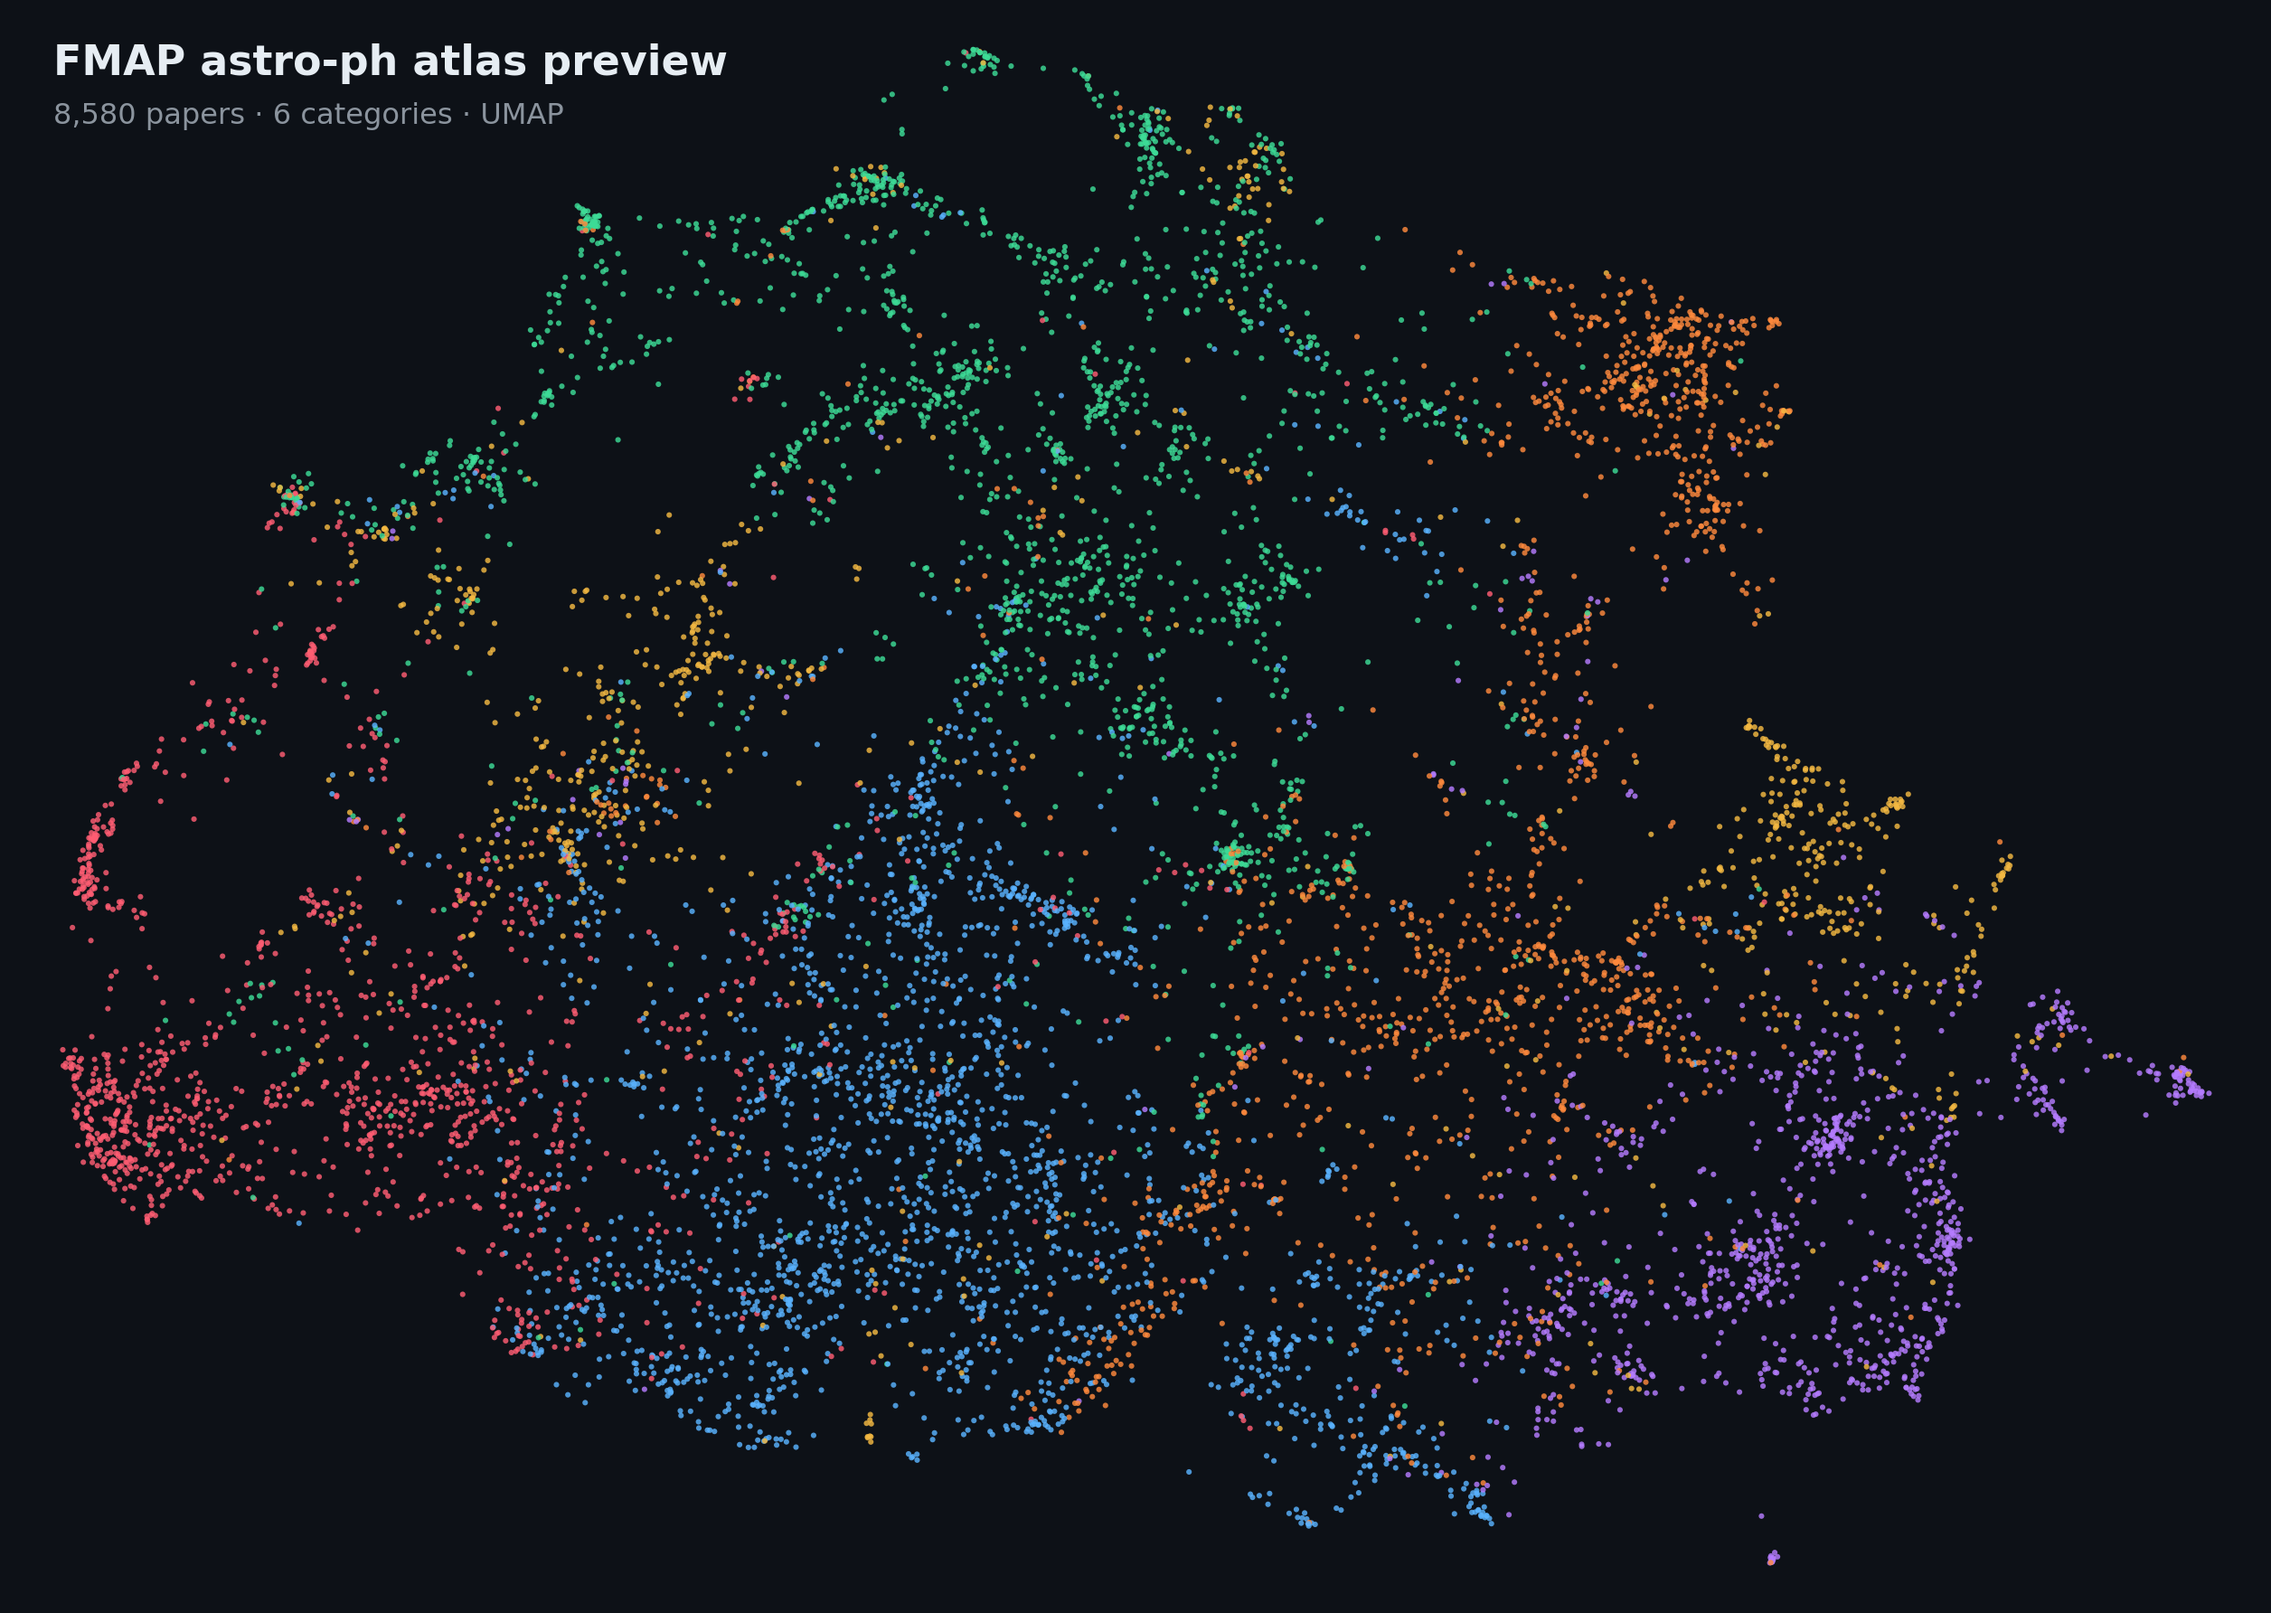
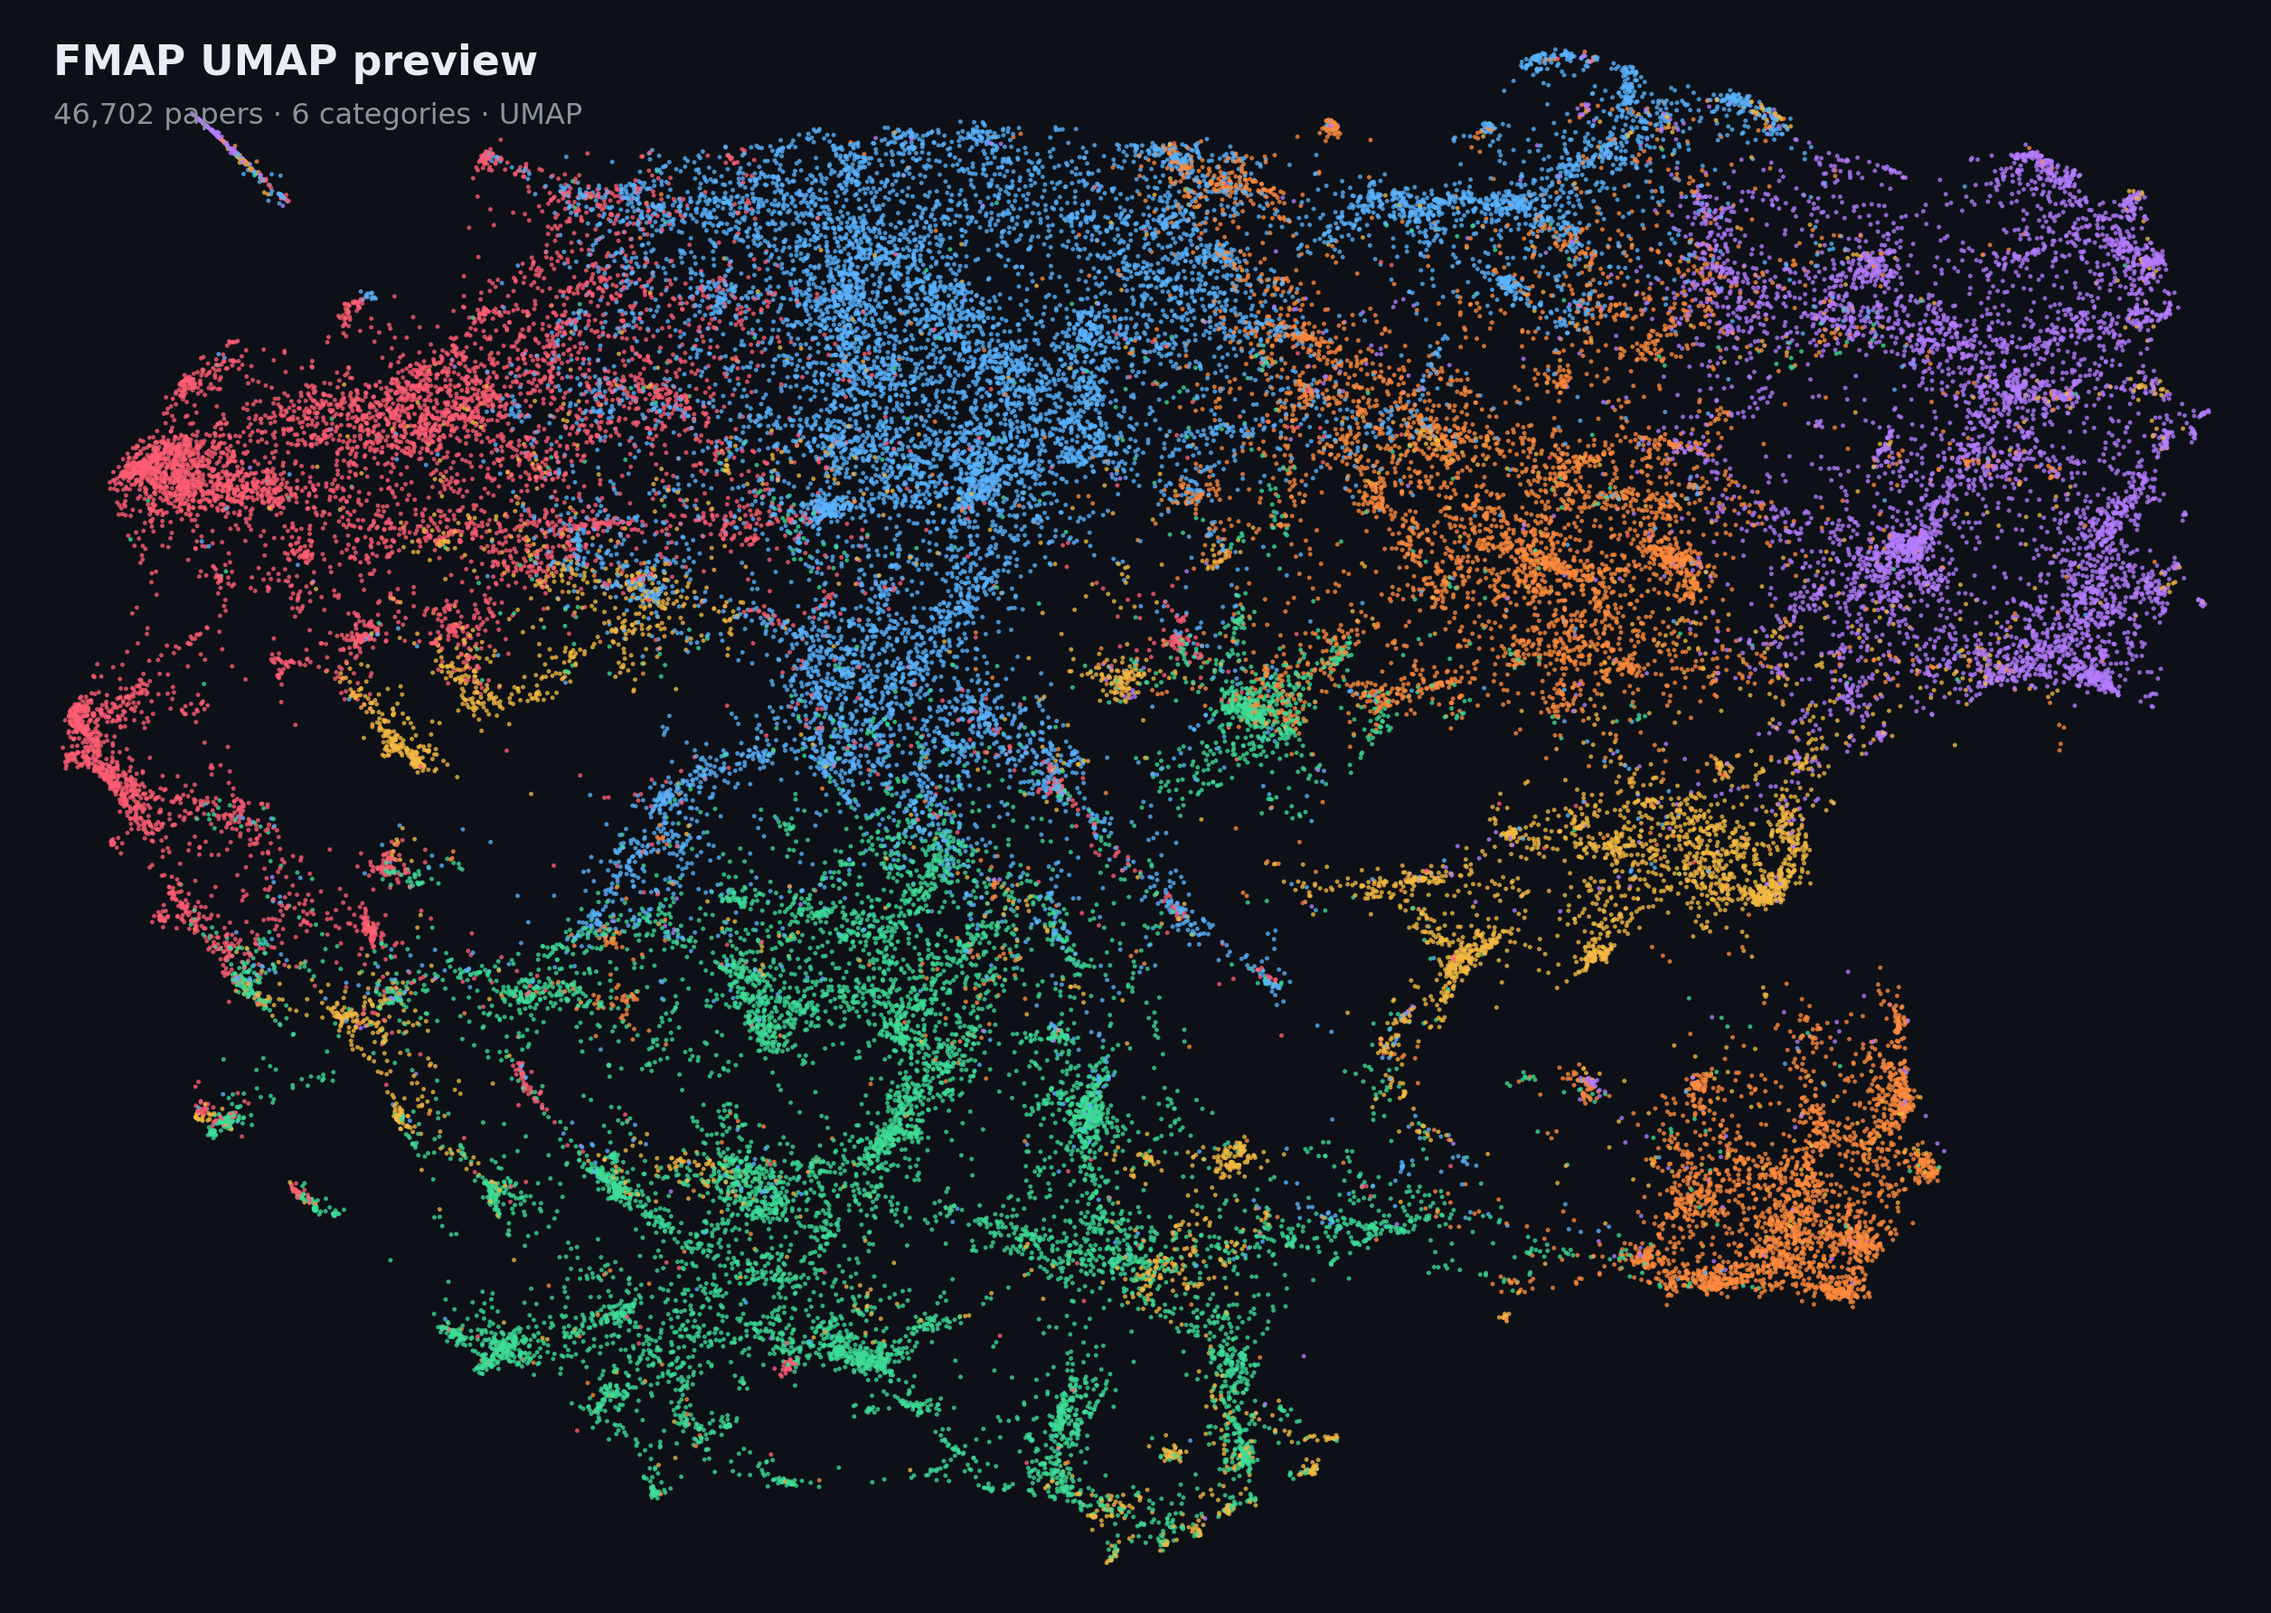
Refresh README UMAP preview with full atlas snapshot

diff --git a/README.md b/README.md
@@ -16,7 +16,7 @@ The project name is **FMAP: FindMyArxivPaper**.
   <div style="background:#0d1117; border:1px solid #30363d; border-radius:16px; padding:20px; display:inline-block; max-width:1100px;">
     <img src="docs/images/atlas-preview.png" alt="FMAP atlas preview" style="display:block; width:100%; max-width:1024px; border-radius:10px; background:#0d1117;" />
     <p style="margin:14px 8px 2px; color:#c9d1d9; font-size:14px; line-height:1.65; text-align:left;">
-      A dense 2D UMAP projection of astro-ph papers embedded from titles and abstracts, coloured by category and prepared for interactive exploration in the generated HTML atlas.
+      UMAP preview of the current full FMAP atlas: 46k+ astro-ph papers embedded from titles and abstracts, coloured by category and prepared for interactive exploration in the generated HTML atlas.
     </p>
   </div>
 </div>
